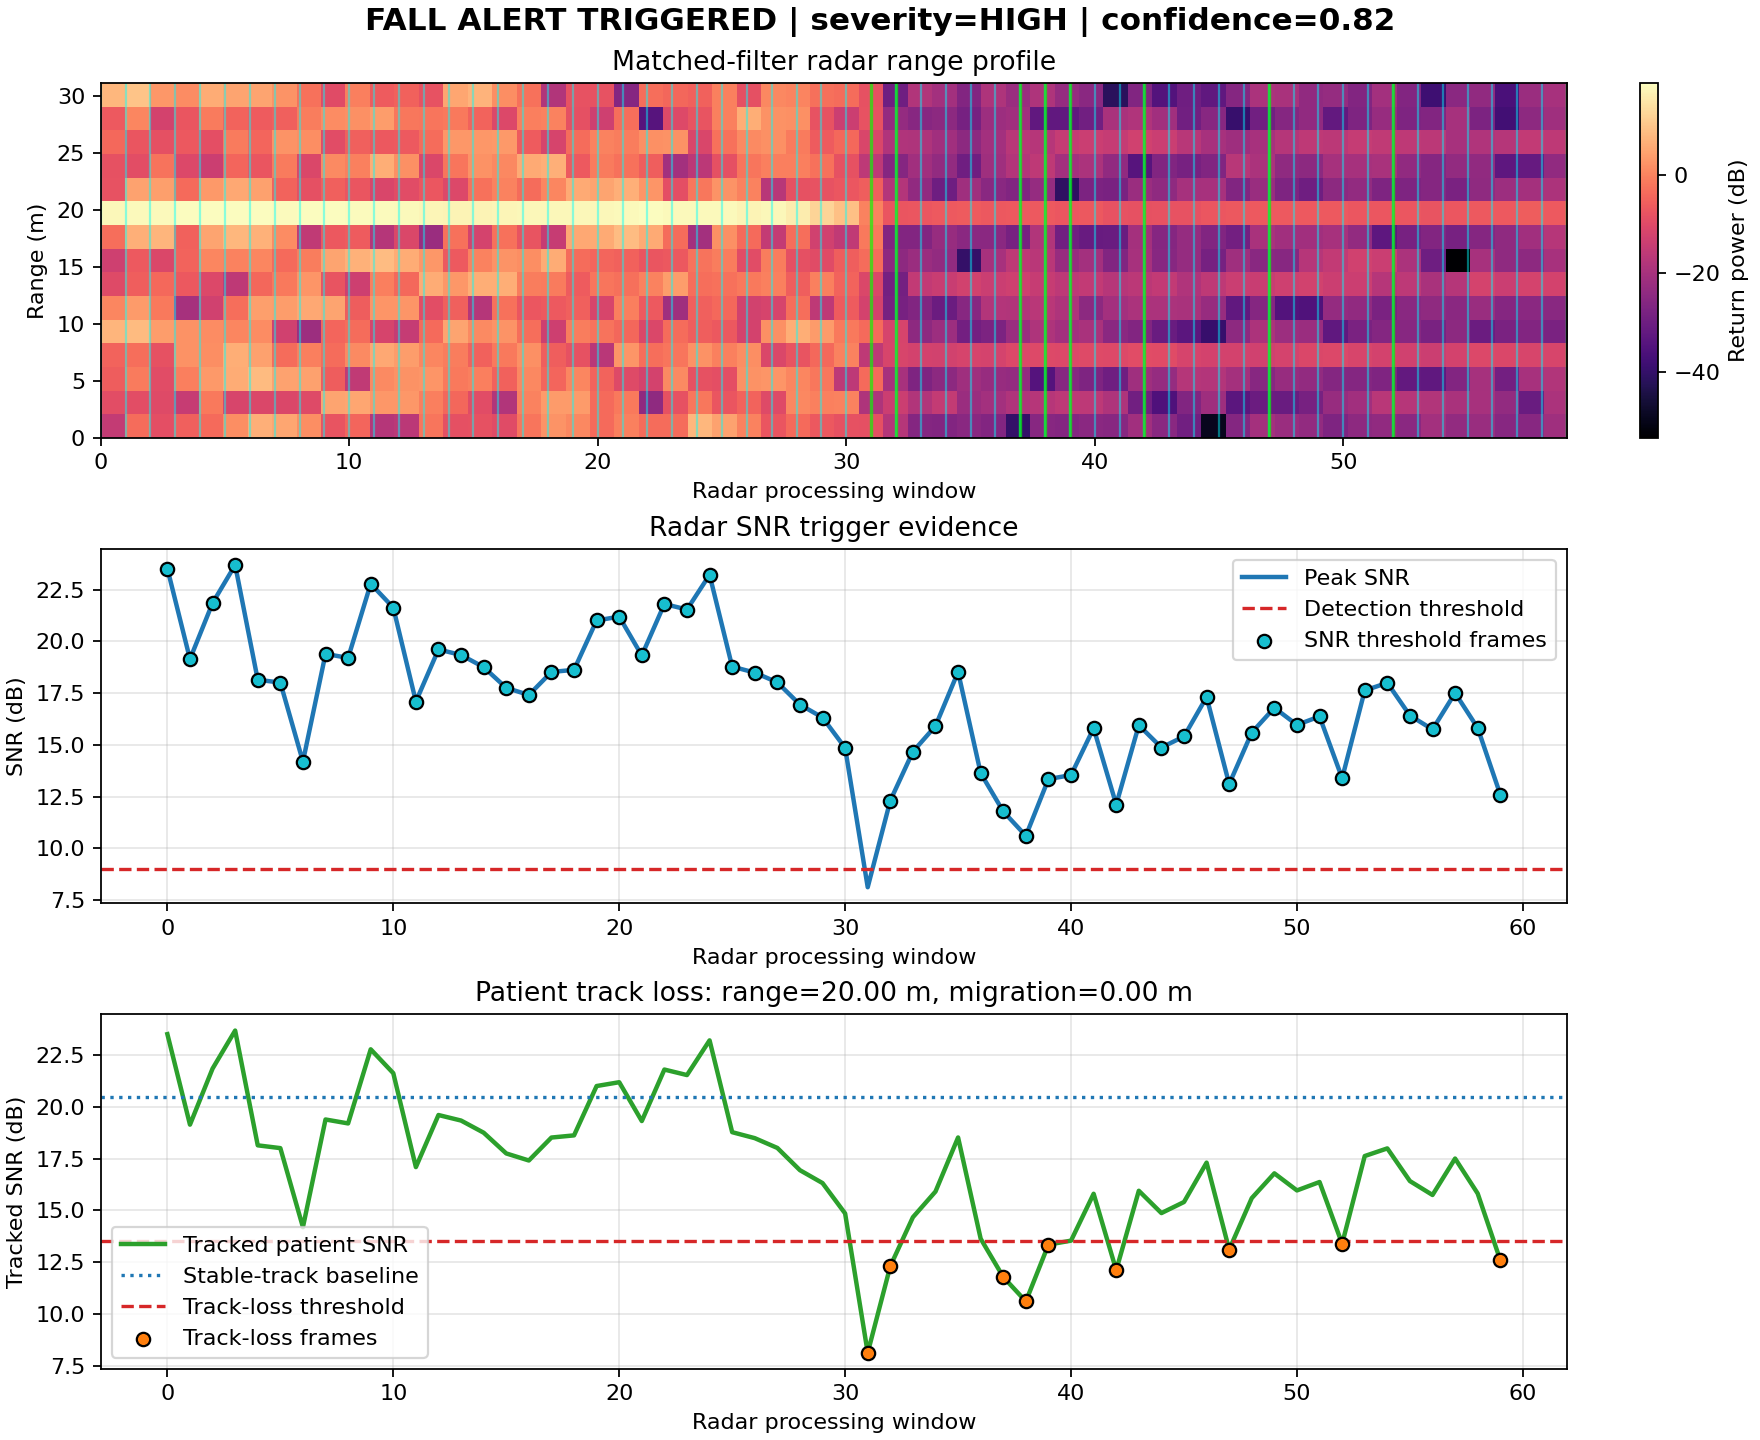
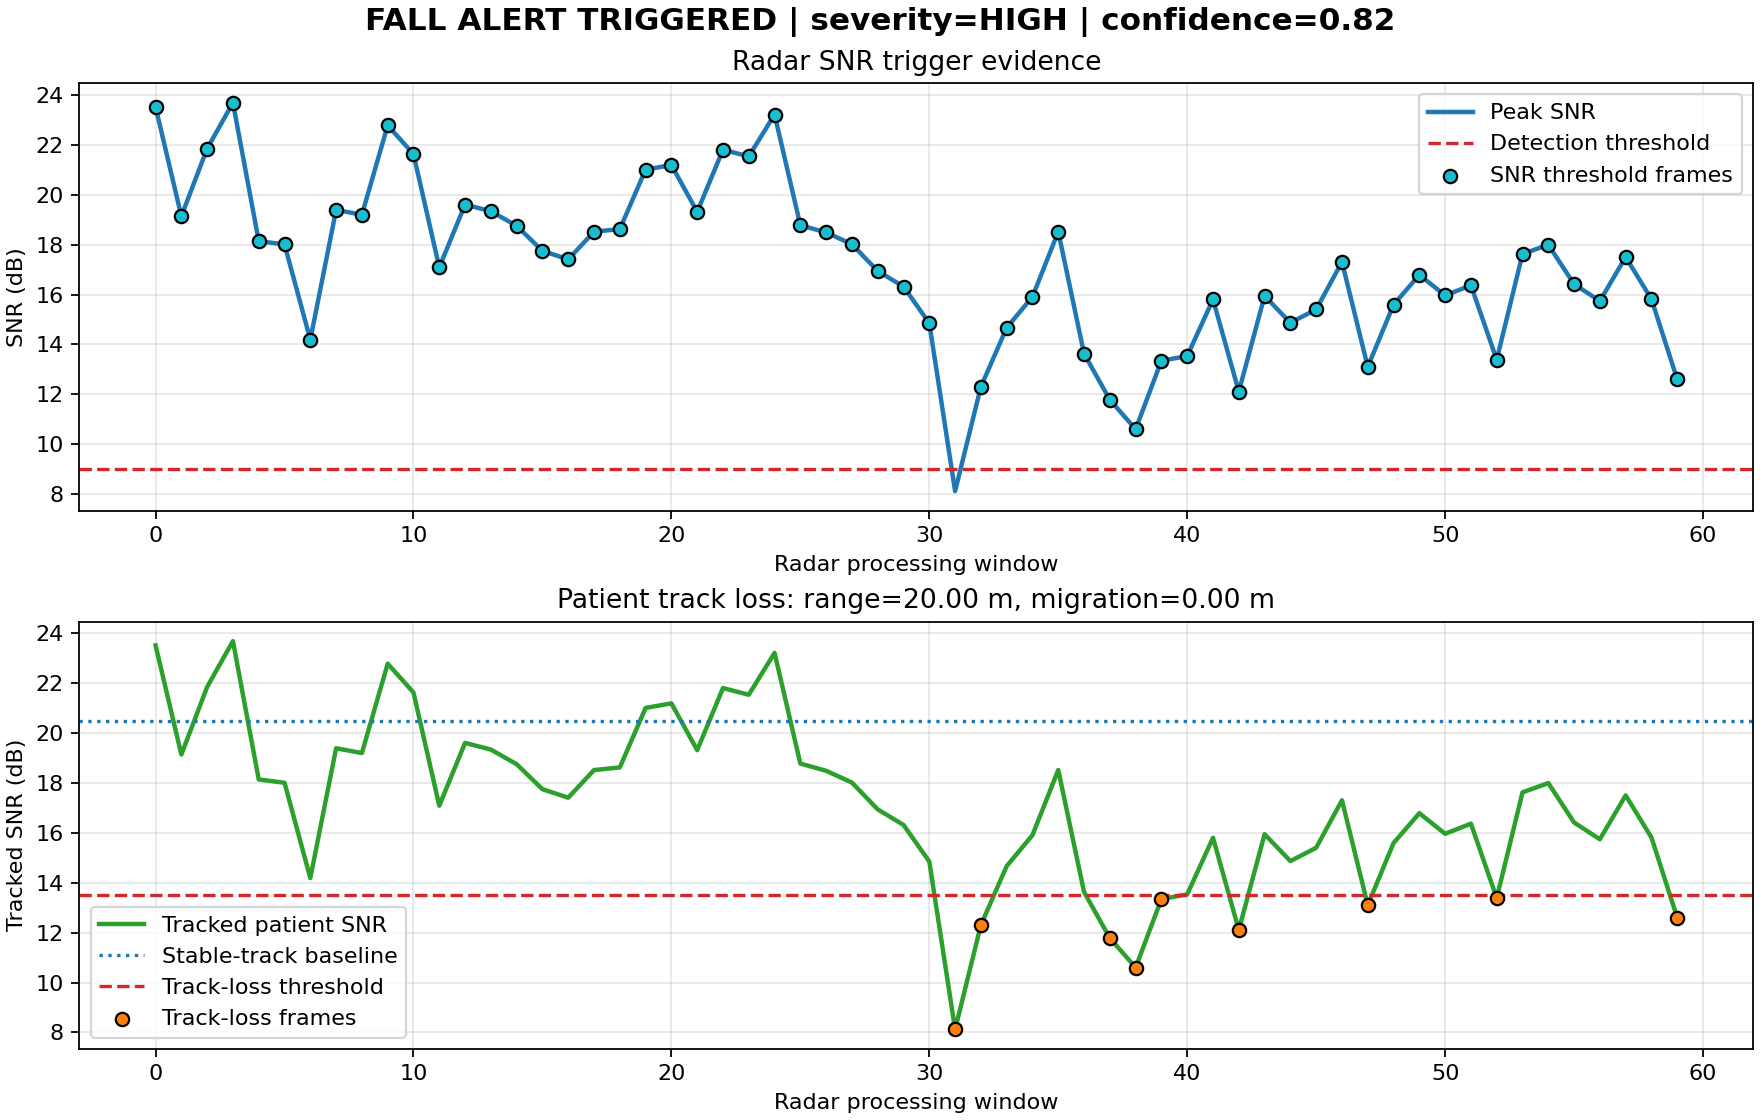
Heatmaps_Removed

diff --git a/visualization/plot_radar.py b/visualization/plot_radar.py
@@ -3,24 +3,20 @@ from pathlib import Path
 import matplotlib.pyplot as plt
 import numpy as np
 
-from config.settings import RADAR_SAMPLE_DELAY_PER_METER
-
 
 class RadarPlotter:
 
     def plot(self, radar_result, fall_result=None, save_path=None, show=True):
-        range_profiles = np.asarray(radar_result["range_profiles"])
         snr_db = np.asarray(radar_result["snr_db"])
         event_frames = np.asarray(radar_result["event_frames"], dtype=int)
         track_loss_frames = np.asarray(radar_result["track_loss_frames"], dtype=int)
         threshold = float(radar_result["threshold_snr_db"])
 
-        fig, axes = plt.subplots(3, 1, figsize=(11, 9), constrained_layout=True)
+        fig, axes = plt.subplots(2, 1, figsize=(11, 7), constrained_layout=True)
         fig.suptitle(self._title(fall_result), fontsize=14, fontweight="bold")
 
-        self._plot_range_heatmap(axes[0], range_profiles, event_frames, track_loss_frames)
-        self._plot_snr(axes[1], snr_db, threshold, event_frames)
-        self._plot_track_loss(axes[2], radar_result, track_loss_frames)
+        self._plot_snr(axes[0], snr_db, threshold, event_frames)
+        self._plot_track_loss(axes[1], radar_result, track_loss_frames)
 
         if save_path is not None:
             path = Path(save_path)
@@ -33,32 +29,6 @@ class RadarPlotter:
             plt.close(fig)
 
         return fig
-
-    def _plot_range_heatmap(self, ax, range_profiles, event_frames, track_loss_frames):
-        if range_profiles.size == 0:
-            ax.text(0.5, 0.5, "No radar range profiles", ha="center", va="center")
-            ax.set_axis_off()
-            return
-
-        power_db = 10 * np.log10(range_profiles.T + 1e-12)
-        max_range_m = (range_profiles.shape[1] - 1) / max(RADAR_SAMPLE_DELAY_PER_METER, 1e-12)
-
-        image = ax.imshow(
-            power_db,
-            aspect="auto",
-            origin="lower",
-            extent=[0, range_profiles.shape[0] - 1, 0, max_range_m],
-            cmap="magma",
-        )
-        for frame_idx in event_frames:
-            ax.axvline(frame_idx, color="cyan", alpha=0.45, linewidth=1)
-        for frame_idx in track_loss_frames:
-            ax.axvline(frame_idx, color="lime", alpha=0.65, linewidth=1.5)
-
-        ax.set_title("Matched-filter radar range profile")
-        ax.set_xlabel("Radar processing window")
-        ax.set_ylabel("Range (m)")
-        plt.colorbar(image, ax=ax, label="Return power (dB)")
 
     def _plot_snr(self, ax, snr_db, threshold, event_frames):
         frames = np.arange(len(snr_db))
